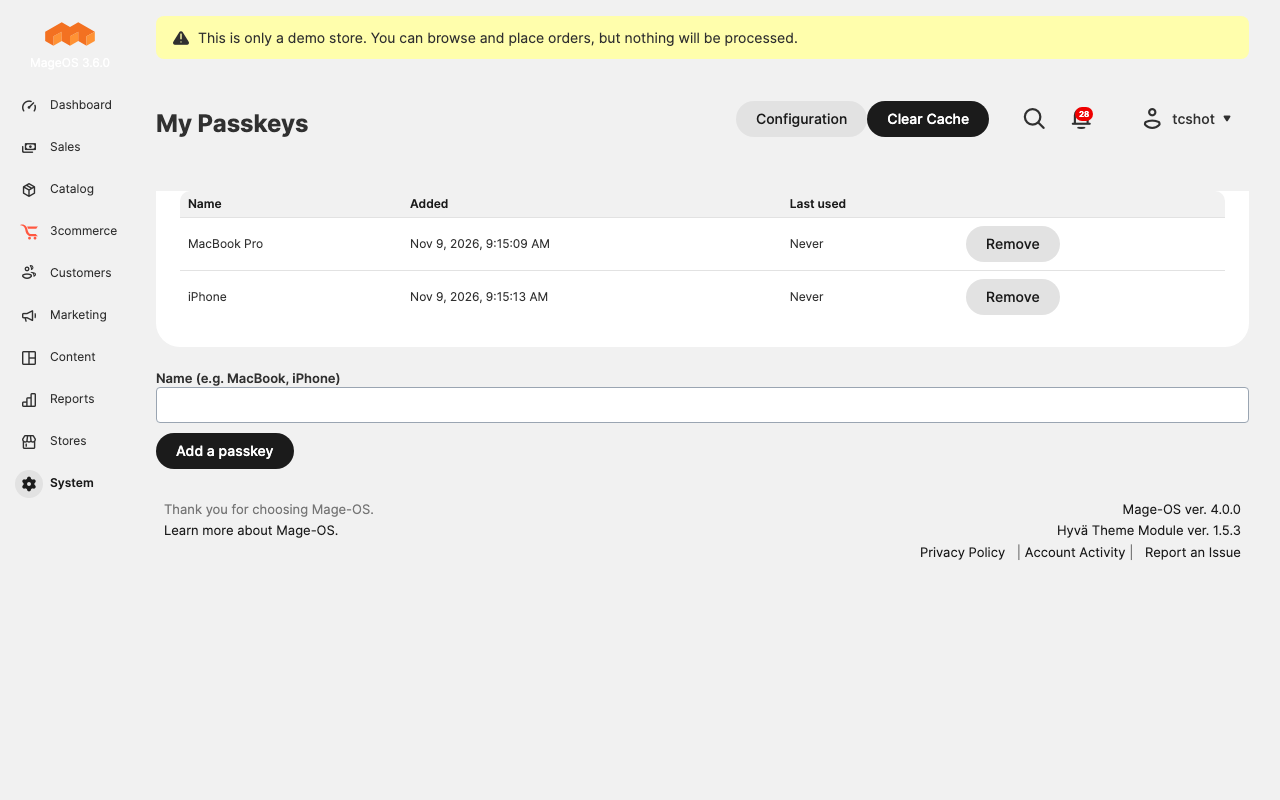
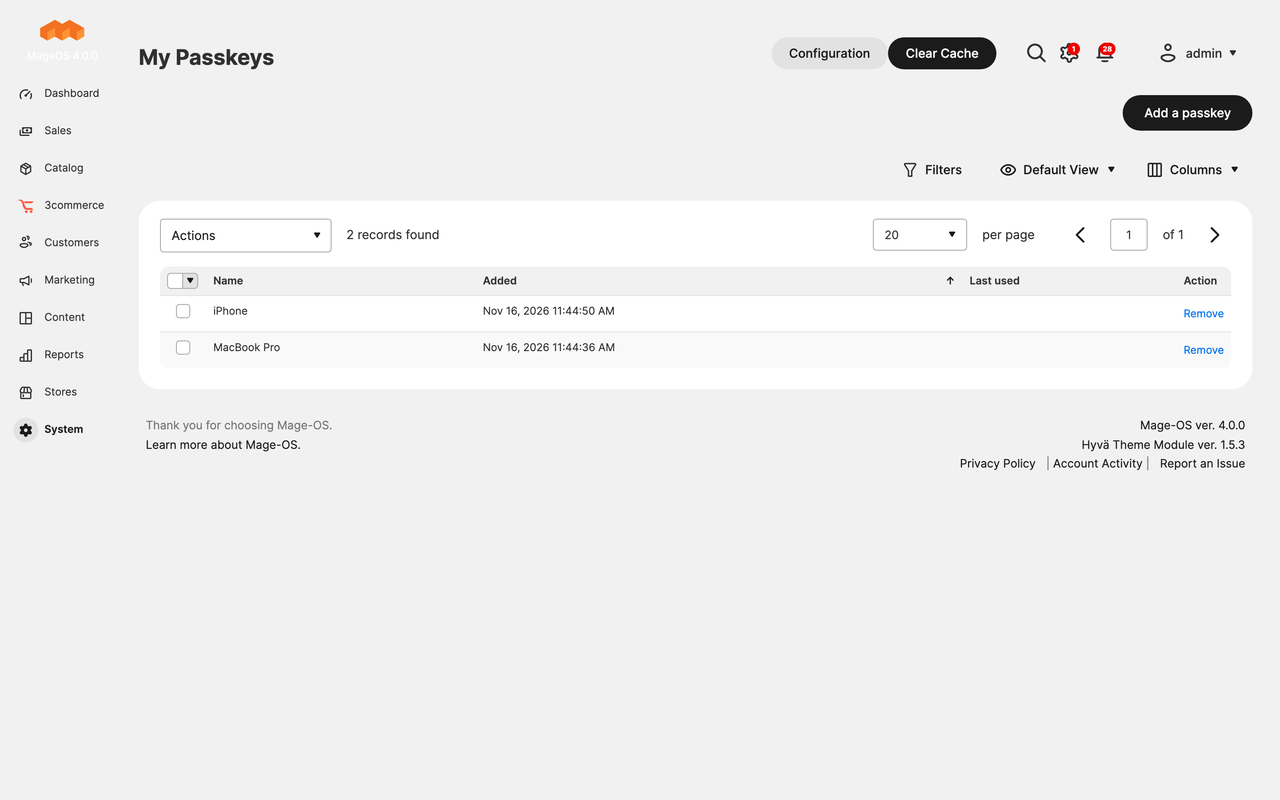
Release 1.1.2

diff --git a/README.md b/README.md
@@ -10,14 +10,14 @@ Adds a **passkey sign-in** to the Magento admin: Touch ID, Face ID, Windows Hell
 ## Features
 
 - **"Sign in with a passkey"** button on the admin login page. The credential is discoverable, so the browser offers your account and you do not even type the username.
-- **Several passkeys per admin user** (up to a limit you set), added and removed in *System → Permissions → My Passkeys*.
+- **Several passkeys per admin user** (up to a limit you set), managed in *System → Permissions → My Passkeys*: a standard admin grid with an **Add a passkey** button, a name for each device, **Remove** per row and bulk removal.
 - **User verification is always required** (fingerprint, face or PIN), so a passkey sign-in is already two factors. You can switch this off if you still want the 2FA code after the passkey.
 - Optional **password lockout**: once an admin has a passkey, the password no longer opens the admin, neither from the login form nor from the admin API token.
 - **Recovery command** if a device is lost: `bin/magento threecommerce:adminpasskey:reset --user=NAME` (or `--all`).
 - Abuse protection: limited failed attempts and requests, one-time challenges that expire, and a signature counter check against cloned authenticators.
 - Works with Magento's two-factor module disabled as well as enabled.
 
-![Passkeys registered by an admin user](images/admin-passkey-my-passkeys.png)
+![The My Passkeys grid with two registered devices](images/admin-passkey-my-passkeys.png)
 
 ## Requirements
 
